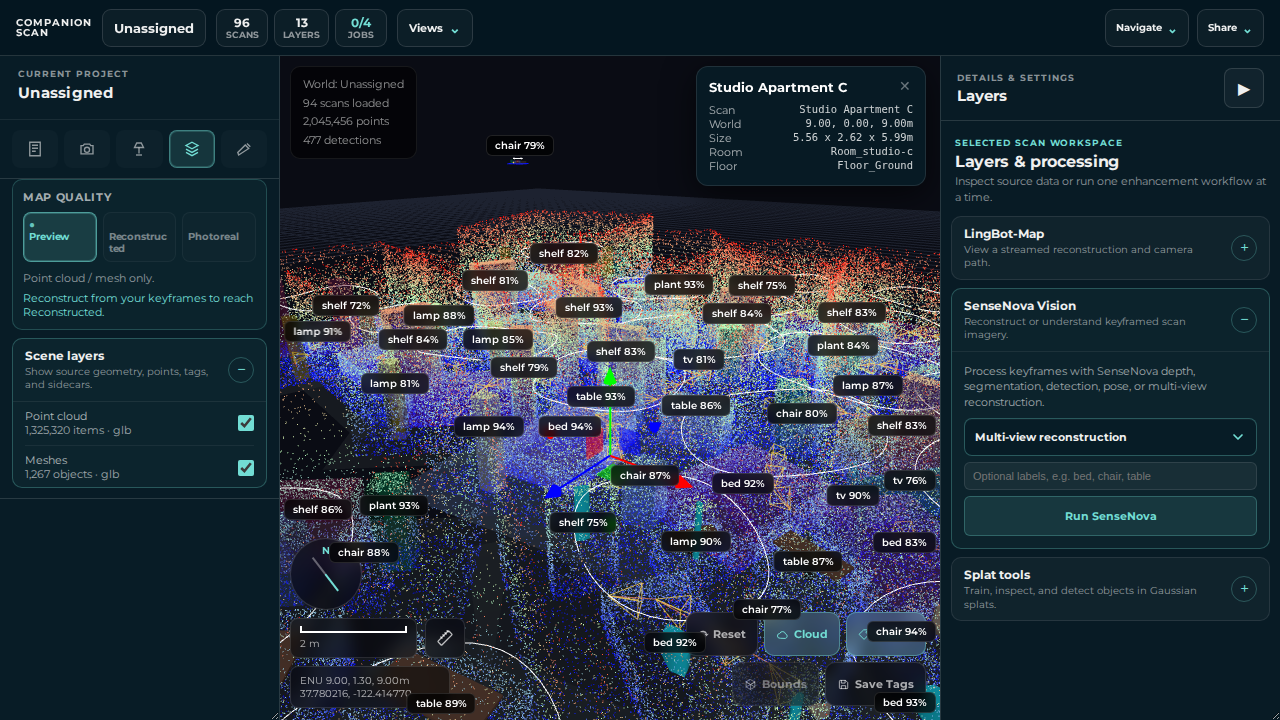
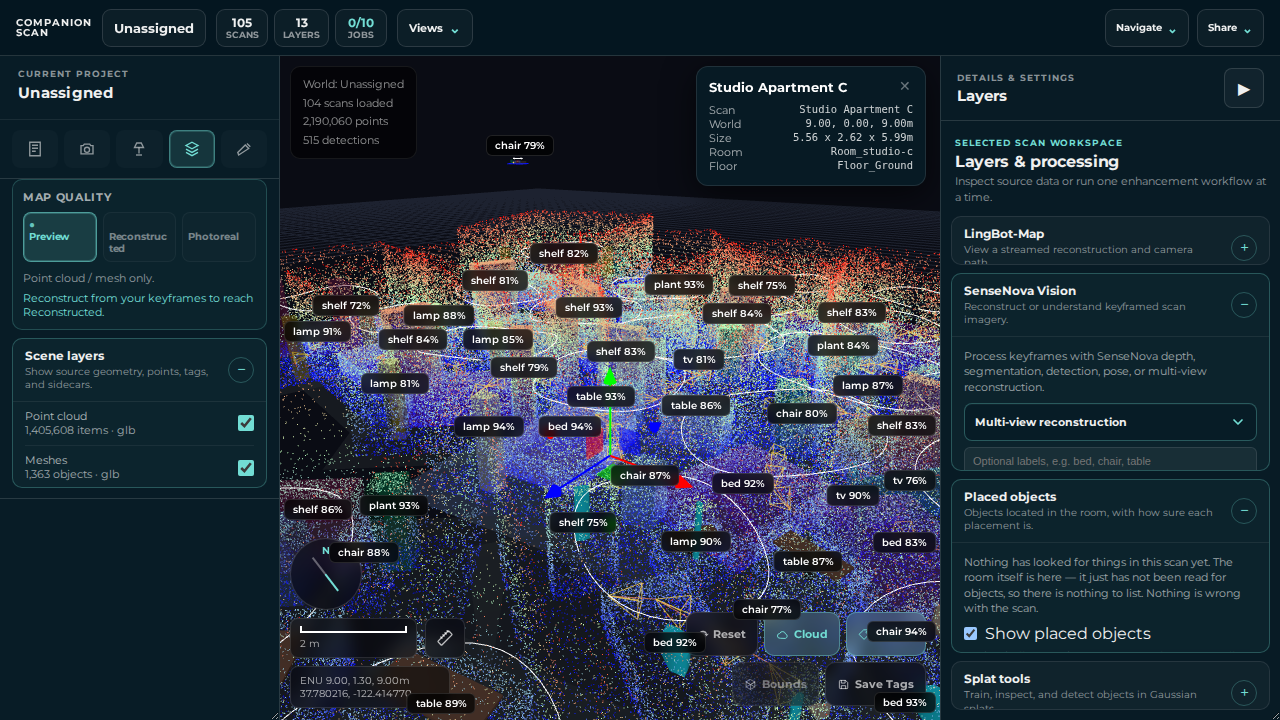
fix(lingbot-map): make the job path work, not just the command line
The worker succeeded from a shell and the WorldJob that calls it OOMed, which is
the worst split to leave in place: the tool looks installed and working right up
until the product uses it.

Two differences between the two paths, both in the driver:

- It spawned the worker with no `env`, so PYTORCH_CUDA_ALLOC_CONF never reached
  it. That is torch's own suggestion in the OOM it raises here, and upstream's
  limited-VRAM section uses it: without it the allocator fragments and a run
  that fits still fails. Inherited-then-extended rather than replaced, since a
  bare env would strip PATH and the venv resolution with it.
- It passed no frame cap, handing the worker every frame in the session (48
  here) where the successful shell run used 16. Measured on a 12 GB 4080: 16
  frames reconstruct in ~17 s for 2.4M points; 24 OOM. Default is now 16,
  overridable with LINGBOT_MAP_MAX_FRAMES, because the cost is set by the scale
  phase and the KV window rather than by session length.

Verified through the HTTP job API on a clean server, not by calling the module:
  POST /worlds/default/jobs {"type":"lingbot-map-reconstruct"}
  -> completed, status ok, 16 frames, 2,436,672 points, 21.1 s

diff --git a/server/lingbot-map/lingbot_map.ts b/server/lingbot-map/lingbot_map.ts
@@ -156,10 +156,31 @@ export async function runLingBotMapReconstruction(
     )
   }
 
+  // A frame cap the GPU can actually hold. Measured on a 12 GB 4080: 16 frames
+  // reconstruct in ~17 s and produce 2.4M points; 24 frames OOM. The job used to
+  // pass no cap at all, so it handed the worker every frame in the session (48
+  // here) and failed where the same worker succeeds from the CLI. Raise it via
+  // LINGBOT_MAP_MAX_FRAMES on a card with more memory — the model's cost is set
+  // by the scale phase and the window, not by session length.
+  const frameCap = opts.maxFrames && opts.maxFrames > 0
+    ? opts.maxFrames
+    : Number(Deno.env.get('LINGBOT_MAP_MAX_FRAMES') ?? '16')
+
   let cmd: Deno.Command
   try {
     cmd = new Deno.Command(python, {
-      args: buildWorkerArgs({ ...opts, modelPath, device }),
+      args: buildWorkerArgs({ ...opts, modelPath, device, maxFrames: frameCap }),
+      // Inherit, then add: replacing the environment wholesale would strip PATH
+      // and the venv resolution with it.
+      //
+      // expandable_segments is torch's own suggestion in the OOM it raises here,
+      // and upstream's limited-VRAM section uses it too. Measured: without it the
+      // allocator fragments and a run that fits still fails.
+      env: {
+        ...Deno.env.toObject(),
+        PYTORCH_CUDA_ALLOC_CONF: Deno.env.get('PYTORCH_CUDA_ALLOC_CONF') ??
+          'expandable_segments:True',
+      },
       stdout: 'piped',
       stderr: 'piped',
     })
